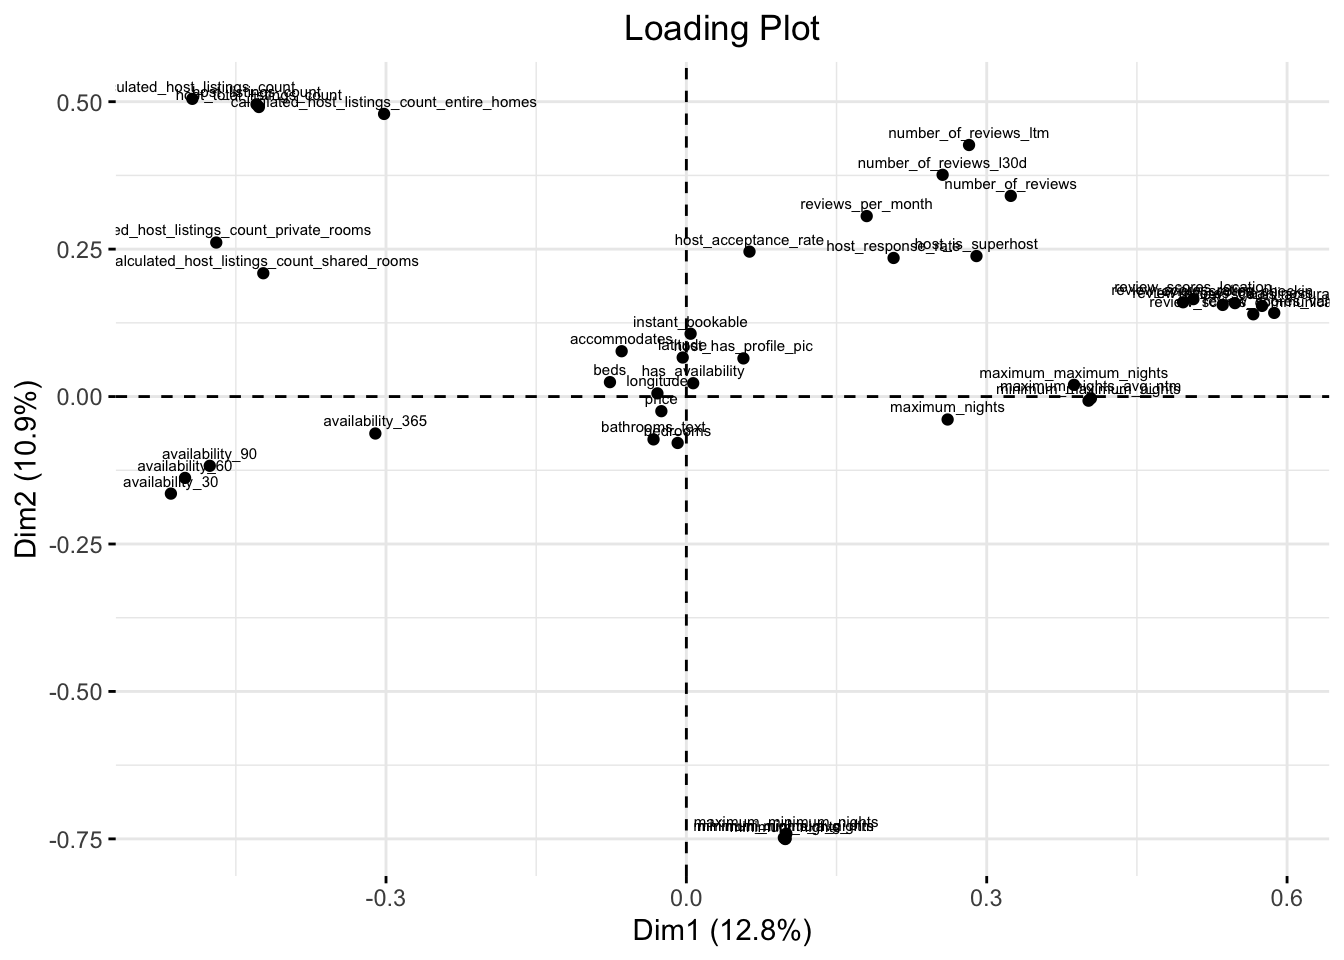
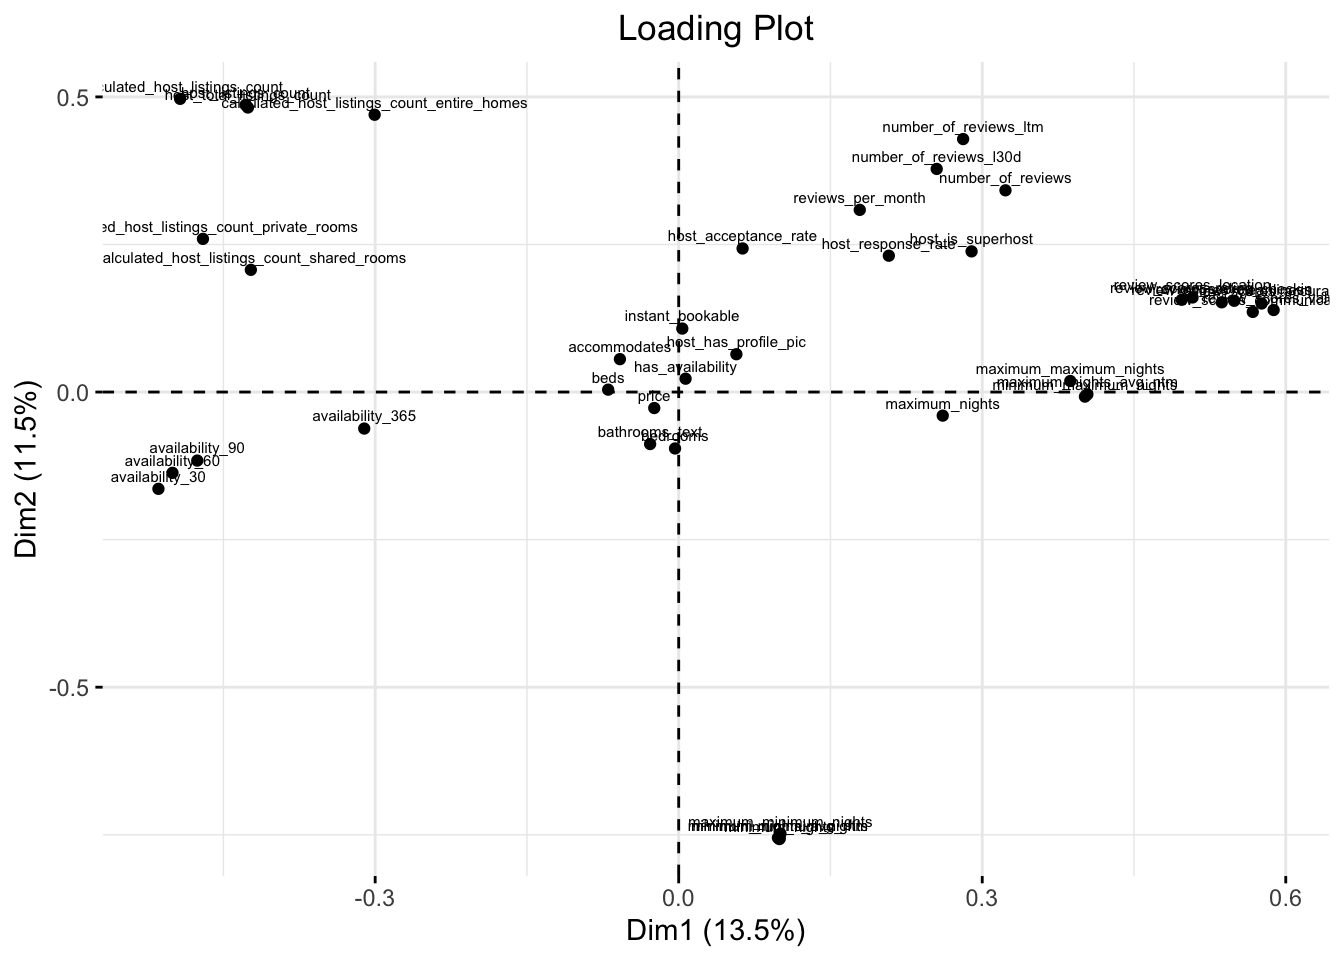
pca before scores

diff --git a/docs/posts/data-airbnb-santiago/airbnb.html b/docs/posts/data-airbnb-santiago/airbnb.html
@@ -172,7 +172,10 @@ code span.wa { color: #60a0b0; font-weight: bold; font-style: italic; } /* Warni
   <li><a href="#eliminación-variables" id="toc-eliminación-variables" class="nav-link" data-scroll-target="#eliminación-variables">Eliminación Variables</a></li>
   </ul></li>
   </ul></li>
-  <li><a href="#análisis-de-componentes-principales-pca" id="toc-análisis-de-componentes-principales-pca" class="nav-link" data-scroll-target="#análisis-de-componentes-principales-pca">Análisis de Componentes Principales (PCA)</a></li>
+  <li><a href="#análisis-de-componentes-principales-pca" id="toc-análisis-de-componentes-principales-pca" class="nav-link" data-scroll-target="#análisis-de-componentes-principales-pca">Análisis de Componentes Principales (PCA)</a>
+  <ul class="collapse">
+  <li><a href="#loadings" id="toc-loadings" class="nav-link" data-scroll-target="#loadings">Loadings</a></li>
+  </ul></li>
   </ul>
 </nav>
 </nav>
@@ -718,11 +721,12 @@ code span.wa { color: #60a0b0; font-weight: bold; font-style: italic; } /* Warni
 <section id="eliminación-variables" class="level3">
 <h3 class="anchored" data-anchor-id="eliminación-variables">Eliminación Variables</h3>
 <p>Además de eliminar las variables que se comentaron en la sección anterior, también deberán eliminarse algunas variables que no aportan información ya que son <strong><em>id</em></strong> específicos o variables que contienen información de tipo descriptivo como <strong><em>links</em></strong>.</p>
+<p>También se prescindirá de la información geográfica (latitud y longitud).</p>
 <div class="cell">
 <div class="sourceCode cell-code" id="cb3"><pre class="sourceCode r code-with-copy"><code class="sourceCode r"><span id="cb3-1"><a href="#cb3-1" aria-hidden="true" tabindex="-1"></a><span class="co"># variables con &gt; 90% de faltantes</span></span>
 <span id="cb3-2"><a href="#cb3-2" aria-hidden="true" tabindex="-1"></a>var.na <span class="ot">&lt;-</span> <span class="fu">names</span>(na.count[<span class="dv">1</span><span class="sc">:</span><span class="dv">5</span>])</span>
 <span id="cb3-3"><a href="#cb3-3" aria-hidden="true" tabindex="-1"></a><span class="co"># variables id - links</span></span>
-<span id="cb3-4"><a href="#cb3-4" aria-hidden="true" tabindex="-1"></a>var.drop <span class="ot">&lt;-</span> <span class="fu">c</span>(<span class="st">"id"</span>,<span class="st">"listing_url"</span>,<span class="st">"scrape_id"</span>,<span class="st">"last_scraped"</span>,<span class="st">"source"</span>,<span class="st">"picture_url"</span>,<span class="st">"host_id"</span>,<span class="st">"host_url"</span>,<span class="st">"host_about"</span>,<span class="st">"host_thumbnail_url"</span>,<span class="st">"host_picture_url"</span>)</span>
+<span id="cb3-4"><a href="#cb3-4" aria-hidden="true" tabindex="-1"></a>var.drop <span class="ot">&lt;-</span> <span class="fu">c</span>(<span class="st">"id"</span>,<span class="st">"listing_url"</span>,<span class="st">"scrape_id"</span>,<span class="st">"last_scraped"</span>,<span class="st">"source"</span>,<span class="st">"picture_url"</span>,<span class="st">"host_id"</span>,<span class="st">"host_url"</span>,<span class="st">"host_about"</span>,<span class="st">"host_thumbnail_url"</span>,<span class="st">"host_picture_url"</span>,<span class="st">"latitude"</span>,<span class="st">"longitude"</span>)</span>
 <span id="cb3-5"><a href="#cb3-5" aria-hidden="true" tabindex="-1"></a></span>
 <span id="cb3-6"><a href="#cb3-6" aria-hidden="true" tabindex="-1"></a><span class="co"># Quitandolas del dataset</span></span>
 <span id="cb3-7"><a href="#cb3-7" aria-hidden="true" tabindex="-1"></a>air.stgo <span class="ot">&lt;-</span> </span>
@@ -734,8 +738,22 @@ code span.wa { color: #60a0b0; font-weight: bold; font-style: italic; } /* Warni
 </section>
 <section id="análisis-de-componentes-principales-pca" class="level1">
 <h1>Análisis de Componentes Principales (PCA)</h1>
-<p>Un PCA sólo se puede realizar sobre variables numéricas. Por ende, en este caso se utilizarán solo variables de tipo numérico o en su caso binarias (0/1).</p>
-<p><em>Si se quisieran incluir variables de tipo categórico en este análisis se podría transformar estas variables en variables dummy, aunque no es el objetivo de este análisis</em></p>
+<p>Un PCA es una técnica estadística que permite la reducción de la dimensionalidad de una matriz de datos. Intuitivamente esta técnica nos permitirá explorar relaciones entre variables y observaciones de la manera que generalmente los humanos obtenemos conclusiones, que es a través de gráficos en dos dimensiones.</p>
+<div class="callout-note callout callout-style-default callout-captioned">
+<div class="callout-header d-flex align-content-center">
+<div class="callout-icon-container">
+<i class="callout-icon"></i>
+</div>
+<div class="callout-caption-container flex-fill">
+Casos de uso del PCA
+</div>
+</div>
+<div class="callout-body-container callout-body">
+<p>PCA se usa en diversas aplicaciones como compresión de imágenes , biometría , bioinformática , control de calidad , entre otros.</p>
+</div>
+</div>
+<p>Un PCA sólo se puede realizar sobre variables numéricas. Por ende, en este caso se utilizarán solo variables de tipo numérico (incluyendo binarias 0/1).</p>
+<p><strong>Si se quisieran incluir variables de tipo categórico en este análisis, se podría transformar estas variables en variables dummy (<em>0/1 para cada categoría de la variable</em>), aunque no es el objetivo de este análisis y existen otras técnicas más adecuadas para modelar datos de tipo categórico.</strong></p>
 <div class="cell">
 <div class="sourceCode cell-code" id="cb4"><pre class="sourceCode r code-with-copy"><code class="sourceCode r"><span id="cb4-1"><a href="#cb4-1" aria-hidden="true" tabindex="-1"></a><span class="co"># Seleccionar variables de tipo numerico</span></span>
 <span id="cb4-2"><a href="#cb4-2" aria-hidden="true" tabindex="-1"></a>var.pca <span class="ot">&lt;-</span> <span class="fu">do.call</span>(rbind, <span class="fu">lapply</span>(air.stgo, class))<span class="sc">%&gt;%</span> </span>
@@ -750,31 +768,43 @@ code span.wa { color: #60a0b0; font-weight: bold; font-style: italic; } /* Warni
 <i class="callout-icon"></i>
 </div>
 <div class="callout-caption-container flex-fill">
-Tip
+Escalado y Centrado
 </div>
 </div>
 <div class="callout-body-container callout-body">
-<p>Gran parte de las veces es recomendable <strong>escalar y centrar</strong> las variables antes de aplicar PCA, ya que por lo general se tienen variables diversas con distintas escalas y magnitudes. Analiza tus datos y prueba distintas técnicas de preprocesamiento que sean coherentes con el análisis que estas realizando.</p>
+<p>Gran parte de las veces es recomendable <strong>escalar (varianza unitaria) y centrar (media cero)</strong> las variables antes de aplicar PCA, ya que por lo general, se tienen diversas variables con distintas escalas y magnitudes. Analiza tus datos y prueba distintas técnicas de preprocesamiento que sean coherentes con el análisis que estas realizando.</p>
 </div>
 </div>
-<p>Realizando el preprocesamiento y ajustando PCA con la función <em>PCA</em> de la librería <em>FactoMiner</em>:</p>
+<p>Realizando el preprocesamiento y ajustando lel PCA con la función <em>PCA</em> de la librería <strong><em>FactoMiner</em></strong>:</p>
 <div class="cell">
 <div class="sourceCode cell-code" id="cb5"><pre class="sourceCode r code-with-copy"><code class="sourceCode r"><span id="cb5-1"><a href="#cb5-1" aria-hidden="true" tabindex="-1"></a>pca.air <span class="ot">&lt;-</span> <span class="fu">PCA</span>(<span class="fu">scale</span>(air.stgo[,var.pca],</span>
 <span id="cb5-2"><a href="#cb5-2" aria-hidden="true" tabindex="-1"></a>                     <span class="at">center =</span> <span class="cn">TRUE</span>,</span>
 <span id="cb5-3"><a href="#cb5-3" aria-hidden="true" tabindex="-1"></a>                     <span class="at">scale =</span> <span class="cn">TRUE</span>) , </span>
 <span id="cb5-4"><a href="#cb5-4" aria-hidden="true" tabindex="-1"></a>               <span class="at">graph =</span> <span class="cn">FALSE</span> , </span>
-<span id="cb5-5"><a href="#cb5-5" aria-hidden="true" tabindex="-1"></a>               <span class="at">scale.unit =</span> <span class="cn">FALSE</span>)</span>
-<span id="cb5-6"><a href="#cb5-6" aria-hidden="true" tabindex="-1"></a><span class="fu">fviz_eig</span>(pca.air , <span class="at">addlabels =</span> <span class="cn">TRUE</span>)</span></code><button title="Copy to Clipboard" class="code-copy-button"><i class="bi"></i></button></pre></div>
+<span id="cb5-5"><a href="#cb5-5" aria-hidden="true" tabindex="-1"></a>               <span class="at">scale.unit =</span> <span class="cn">FALSE</span>)</span></code><button title="Copy to Clipboard" class="code-copy-button"><i class="bi"></i></button></pre></div>
+</div>
+<p>Una vez ajustado el modelo, el primer gráfico que observaremos será el llamado <em>scree plot</em>. Este gráfico muestra cual es el porcentaje de varianza explicada por cada componente principal.</p>
+<div class="cell" data-layout-align="center">
+<div class="sourceCode cell-code" id="cb6"><pre class="sourceCode r code-with-copy"><code class="sourceCode r"><span id="cb6-1"><a href="#cb6-1" aria-hidden="true" tabindex="-1"></a><span class="fu">fviz_eig</span>(pca.air , <span class="at">addlabels =</span> <span class="cn">TRUE</span>)</span></code><button title="Copy to Clipboard" class="code-copy-button"><i class="bi"></i></button></pre></div>
 <div class="cell-output-display">
-<p><img src="airbnb_files/figure-html/PCA-1.png" class="img-fluid" width="672"></p>
+<div class="quarto-figure quarto-figure-center">
+<figure class="figure">
+<p><img src="airbnb_files/figure-html/PCA_scree-1.png" style="width:70.0%;height:70.0%" class="figure-img"></p>
+</figure>
 </div>
 </div>
+</div>
+<p>Sin ahondar en lo teórico, es necesario entender que al aplicar esta técnica lo que estamos generando son <strong>nuevas variables (variables latentes)</strong>, las cuales son una <strong>combinación lineal de las variables originales</strong> e intentan “explicar” la mayor cantidad de información posible de la matriz de datos original.</p>
 <p>Se observa que con <strong>7 componentes principales</strong> se puede explicar alrededor del <strong>65% de la variabilidad de los datos</strong>. A partir de las siguientes componentes el porcentaje explicado por cada componente disminuye considerablemente.</p>
-<p>Para observar las relaciones entre las variables se verá el <strong>Loading plot (LP)</strong>:</p>
+<p>Notemos que el número de variables de la matriz de datos con que se realizó el PCA era de 40 y con la “nueva representación” el número de variables se reduce a 7 captando el 65% de la información original.</p>
+<section id="loadings" class="level2">
+<h2 class="anchored" data-anchor-id="loadings">Loadings</h2>
+<p>Para observar las relaciones entre las variables se verán los <strong>loading Plot (LP)</strong></p>
+<p>Primero vemos el LP de la primera componente (Dim1) vs la segunda componente (Dim2):</p>
 <div class="cell">
-<div class="sourceCode cell-code" id="cb6"><pre class="sourceCode r code-with-copy"><code class="sourceCode r"><span id="cb6-1"><a href="#cb6-1" aria-hidden="true" tabindex="-1"></a><span class="fu">fviz_pca_var</span>(pca.air, <span class="at">geom =</span> <span class="fu">c</span>(<span class="st">"point"</span> , <span class="st">"text"</span>) , <span class="at">labelsize =</span> <span class="dv">2</span>)<span class="sc">+</span></span>
-<span id="cb6-2"><a href="#cb6-2" aria-hidden="true" tabindex="-1"></a>  <span class="fu">ggtitle</span>(<span class="st">"Loading Plot"</span>)<span class="sc">+</span></span>
-<span id="cb6-3"><a href="#cb6-3" aria-hidden="true" tabindex="-1"></a>  <span class="fu">theme</span>(<span class="at">plot.title =</span> <span class="fu">element_text</span>(<span class="at">hjust =</span> <span class="fl">0.5</span>))</span></code><button title="Copy to Clipboard" class="code-copy-button"><i class="bi"></i></button></pre></div>
+<div class="sourceCode cell-code" id="cb7"><pre class="sourceCode r code-with-copy"><code class="sourceCode r"><span id="cb7-1"><a href="#cb7-1" aria-hidden="true" tabindex="-1"></a><span class="fu">fviz_pca_var</span>(pca.air, <span class="at">geom =</span> <span class="fu">c</span>(<span class="st">"point"</span> , <span class="st">"text"</span>) , <span class="at">labelsize =</span> <span class="dv">2</span>)<span class="sc">+</span></span>
+<span id="cb7-2"><a href="#cb7-2" aria-hidden="true" tabindex="-1"></a>  <span class="fu">ggtitle</span>(<span class="st">"Loading Plot"</span>)<span class="sc">+</span></span>
+<span id="cb7-3"><a href="#cb7-3" aria-hidden="true" tabindex="-1"></a>  <span class="fu">theme</span>(<span class="at">plot.title =</span> <span class="fu">element_text</span>(<span class="at">hjust =</span> <span class="fl">0.5</span>))</span></code><button title="Copy to Clipboard" class="code-copy-button"><i class="bi"></i></button></pre></div>
 <div class="cell-output-display">
 <p><img src="airbnb_files/figure-html/unnamed-chunk-7-1.png" class="img-fluid" style="width:100.0%"></p>
 </div>
@@ -797,48 +827,48 @@ Tip
 <tbody>
   <tr>
    <td style="text-align:left;"> review_scores_value </td>
-   <td style="text-align:right;"> 0.587 </td>
-   <td style="text-align:right;"> 0.142 </td>
+   <td style="text-align:right;"> 0.588 </td>
+   <td style="text-align:right;"> 0.139 </td>
   </tr>
   <tr>
    <td style="text-align:left;"> review_scores_accuracy </td>
-   <td style="text-align:right;"> 0.575 </td>
-   <td style="text-align:right;"> 0.154 </td>
+   <td style="text-align:right;"> 0.576 </td>
+   <td style="text-align:right;"> 0.150 </td>
   </tr>
   <tr>
    <td style="text-align:left;"> review_scores_communication </td>
-   <td style="text-align:right;"> 0.566 </td>
-   <td style="text-align:right;"> 0.140 </td>
+   <td style="text-align:right;"> 0.567 </td>
+   <td style="text-align:right;"> 0.136 </td>
   </tr>
   <tr>
    <td style="text-align:left;"> review_scores_checkin </td>
-   <td style="text-align:right;"> 0.548 </td>
-   <td style="text-align:right;"> 0.158 </td>
-  </tr>
-  <tr>
-   <td style="text-align:left;"> review_scores_cleanliness </td>
-   <td style="text-align:right;"> 0.536 </td>
+   <td style="text-align:right;"> 0.549 </td>
    <td style="text-align:right;"> 0.155 </td>
   </tr>
   <tr>
+   <td style="text-align:left;"> review_scores_cleanliness </td>
+   <td style="text-align:right;"> 0.537 </td>
+   <td style="text-align:right;"> 0.152 </td>
+  </tr>
+  <tr>
    <td style="text-align:left;"> review_scores_location </td>
-   <td style="text-align:right;"> 0.506 </td>
-   <td style="text-align:right;"> 0.165 </td>
+   <td style="text-align:right;"> 0.508 </td>
+   <td style="text-align:right;"> 0.160 </td>
   </tr>
   <tr>
    <td style="text-align:left;"> review_scores_rating </td>
-   <td style="text-align:right;"> 0.496 </td>
-   <td style="text-align:right;"> 0.160 </td>
+   <td style="text-align:right;"> 0.497 </td>
+   <td style="text-align:right;"> 0.156 </td>
   </tr>
 </tbody>
 </table>
 
 </div>
 </div>
-<p>Que estén cercanas nos indica que estas variables están <strong>muy correlacionadas</strong> entre sí y por ende se puede inferir que al evaluar un alojamiento el huésped tiende a evaluar de manera similar todos los aspectos (comunicación, limpieza , ubicación , etc). Obviamente la variable <strong><em>review_scores_rating</em></strong> esta cerca de cada uno de estos aspectos ya que este indicador engloba a todos los demás aspectos.</p>
-<p>Ya realizando algunas suposiciones más detalladas podemos observar que la variable más cercana a <strong><em>review_scores_rating</em></strong> es la variable <strong><em>review_scores_location</em></strong>. De esto podríamos suponer que la plataforma <strong>le da un mayor peso al ítem ubicación y por ende la calificación final se asemeja de mayor manera a la puntuación en este ítem</strong>.</p>
+<p>Que estén cercanas nos indica que estas variables están <strong>muy correlacionadas</strong> entre sí. De esto se puede inferir que al evaluar un alojamiento, el huésped tiende a evaluar de manera similar todos los aspectos (comunicación, limpieza , ubicación , etc). Obviamente la variable <strong><em>review_scores_rating</em></strong> esta cerca de cada uno de estos aspectos ya que este indicador engloba a todos los demás aspectos.</p>
+<p>Ya realizando algunas suposiciones más detalladas, podemos observar que la variable más cercana a <strong><em>review_scores_rating</em></strong> es la variable <strong><em>review_scores_location</em></strong>. De esto podríamos suponer que la plataforma <strong>le da un mayor peso al ítem ubicación , por lo que la calificación final se asemeja de mayor manera a la puntuación en este ítem</strong>.</p>
 <ol start="2" type="1">
-<li><p>En la parte izquierda ,en el tercer cuadrante, podemos observar a las variables de disponibilidad ( <strong><em>availability</em></strong> ) muy cercanas por lo que un alojamiento que tenga poca disponibilidad en 30 días tenderá a tener menos disponibilidad en los próximos 60 y 90 días.</p></li>
+<li><p>En la parte izquierda, en el tercer cuadrante, podemos observar a las variables de disponibilidad ( <strong><em>availability</em></strong> ) muy cercanas, por lo que un alojamiento que tenga poca disponibilidad en 30 días tenderá a tener menos disponibilidad en los próximos 60 y 90 días.</p></li>
 <li><p>Podemos observar que las variables de <strong>“review”</strong> y <strong>“disponibilidad”</strong> están en los extremos. Por decirlo de alguna forma tienen la mismas coordenadas pero con signo contrario:</p></li>
 </ol>
 <div class="cell">
@@ -855,53 +885,53 @@ Tip
 <tbody>
   <tr>
    <td style="text-align:left;"> review_scores_value </td>
-   <td style="text-align:left;"> <span style="     color: green !important;">0.587</span> </td>
-   <td style="text-align:left;"> <span style="     color: green !important;">0.142</span> </td>
+   <td style="text-align:left;"> <span style="     color: green !important;">0.588</span> </td>
+   <td style="text-align:left;"> <span style="     color: green !important;">0.139</span> </td>
   </tr>
   <tr>
    <td style="text-align:left;"> review_scores_accuracy </td>
-   <td style="text-align:left;"> <span style="     color: green !important;">0.575</span> </td>
-   <td style="text-align:left;"> <span style="     color: green !important;">0.154</span> </td>
+   <td style="text-align:left;"> <span style="     color: green !important;">0.576</span> </td>
+   <td style="text-align:left;"> <span style="     color: green !important;">0.15</span> </td>
   </tr>
   <tr>
    <td style="text-align:left;"> review_scores_communication </td>
-   <td style="text-align:left;"> <span style="     color: green !important;">0.566</span> </td>
-   <td style="text-align:left;"> <span style="     color: green !important;">0.14</span> </td>
+   <td style="text-align:left;"> <span style="     color: green !important;">0.567</span> </td>
+   <td style="text-align:left;"> <span style="     color: green !important;">0.136</span> </td>
   </tr>
   <tr>
    <td style="text-align:left;"> review_scores_checkin </td>
-   <td style="text-align:left;"> <span style="     color: green !important;">0.548</span> </td>
-   <td style="text-align:left;"> <span style="     color: green !important;">0.158</span> </td>
-  </tr>
-  <tr>
-   <td style="text-align:left;"> review_scores_cleanliness </td>
-   <td style="text-align:left;"> <span style="     color: green !important;">0.536</span> </td>
+   <td style="text-align:left;"> <span style="     color: green !important;">0.549</span> </td>
    <td style="text-align:left;"> <span style="     color: green !important;">0.155</span> </td>
   </tr>
   <tr>
-   <td style="text-align:left;"> review_scores_location </td>
-   <td style="text-align:left;"> <span style="     color: green !important;">0.506</span> </td>
-   <td style="text-align:left;"> <span style="     color: green !important;">0.165</span> </td>
+   <td style="text-align:left;"> review_scores_cleanliness </td>
+   <td style="text-align:left;"> <span style="     color: green !important;">0.537</span> </td>
+   <td style="text-align:left;"> <span style="     color: green !important;">0.152</span> </td>
   </tr>
   <tr>
-   <td style="text-align:left;"> review_scores_rating </td>
-   <td style="text-align:left;"> <span style="     color: green !important;">0.496</span> </td>
+   <td style="text-align:left;"> review_scores_location </td>
+   <td style="text-align:left;"> <span style="     color: green !important;">0.508</span> </td>
    <td style="text-align:left;"> <span style="     color: green !important;">0.16</span> </td>
   </tr>
   <tr>
+   <td style="text-align:left;"> review_scores_rating </td>
+   <td style="text-align:left;"> <span style="     color: green !important;">0.497</span> </td>
+   <td style="text-align:left;"> <span style="     color: green !important;">0.156</span> </td>
+  </tr>
+  <tr>
    <td style="text-align:left;"> availability_30 </td>
-   <td style="text-align:left;"> <span style="     color: red !important;">-0.515</span> </td>
-   <td style="text-align:left;"> <span style="     color: red !important;">-0.165</span> </td>
+   <td style="text-align:left;"> <span style="     color: red !important;">-0.514</span> </td>
+   <td style="text-align:left;"> <span style="     color: red !important;">-0.164</span> </td>
   </tr>
   <tr>
    <td style="text-align:left;"> availability_60 </td>
-   <td style="text-align:left;"> <span style="     color: red !important;">-0.501</span> </td>
-   <td style="text-align:left;"> <span style="     color: red !important;">-0.138</span> </td>
+   <td style="text-align:left;"> <span style="     color: red !important;">-0.5</span> </td>
+   <td style="text-align:left;"> <span style="     color: red !important;">-0.137</span> </td>
   </tr>
   <tr>
    <td style="text-align:left;"> availability_90 </td>
    <td style="text-align:left;"> <span style="     color: red !important;">-0.476</span> </td>
-   <td style="text-align:left;"> <span style="     color: red !important;">-0.117</span> </td>
+   <td style="text-align:left;"> <span style="     color: red !important;">-0.116</span> </td>
   </tr>
 </tbody>
 </table>
@@ -909,9 +939,12 @@ Tip
 </div>
 </div>
 <p>Esto implica que las variables están <strong>correlacionadas negativamente</strong>, es decir , si aumenta el valor de una tenderá a disminuir el valor de la otra y viceversa.</p>
-<p>Si se quiere dar una interpretación tangible se puede decir que si aumentan las calificaciones de un alojamiento, este tenderá a tener menor disponibilidad en los próximos 30, 60 y 90 días. Esto tiene sentido ya que los alojamientos con mejores “reviews” tienden a tener menor disponibilidad en la plataforma.</p>
+<p>De esto se puede inferir que si aumentan las puntuaciones de un alojamiento, este tenderá a tener menor disponibilidad en los próximos 30, 60 y 90 días. Esto tiene sentido, ya que los alojamientos con mejores “reviews” tienden a tener menor disponibilidad en la plataforma.</p>
+<!-- ## Scores -->
+<!-- ## T2 y SPE - Limpieza ? - Formulas ? -->
 
 
+</section>
 </section>
 
 </main> <!-- /main -->

diff --git a/docs/index.html b/docs/index.html
@@ -138,7 +138,7 @@ ul.task-list{list-style: none;}
 
 <div class="quarto-listing quarto-listing-container-grid" id="listing-listing">
 <div class="list grid quarto-listing-cols-3">
-<div class="g-col-1" data-index="0" data-categories="R,PCA,EDA" data-listing-date-sort="1665457200000" data-listing-file-modified-sort="1677995585969" data-listing-reading-time-sort="9.335">
+<div class="g-col-1" data-index="0" data-categories="R,PCA,EDA" data-listing-date-sort="1665457200000" data-listing-file-modified-sort="1678079037273" data-listing-reading-time-sort="10.575">
 <a href="./posts/data-airbnb-santiago/airbnb.html" class="quarto-grid-link">
 <div class="quarto-grid-item card h-100 card-left">
 <p class="card-img-top">
